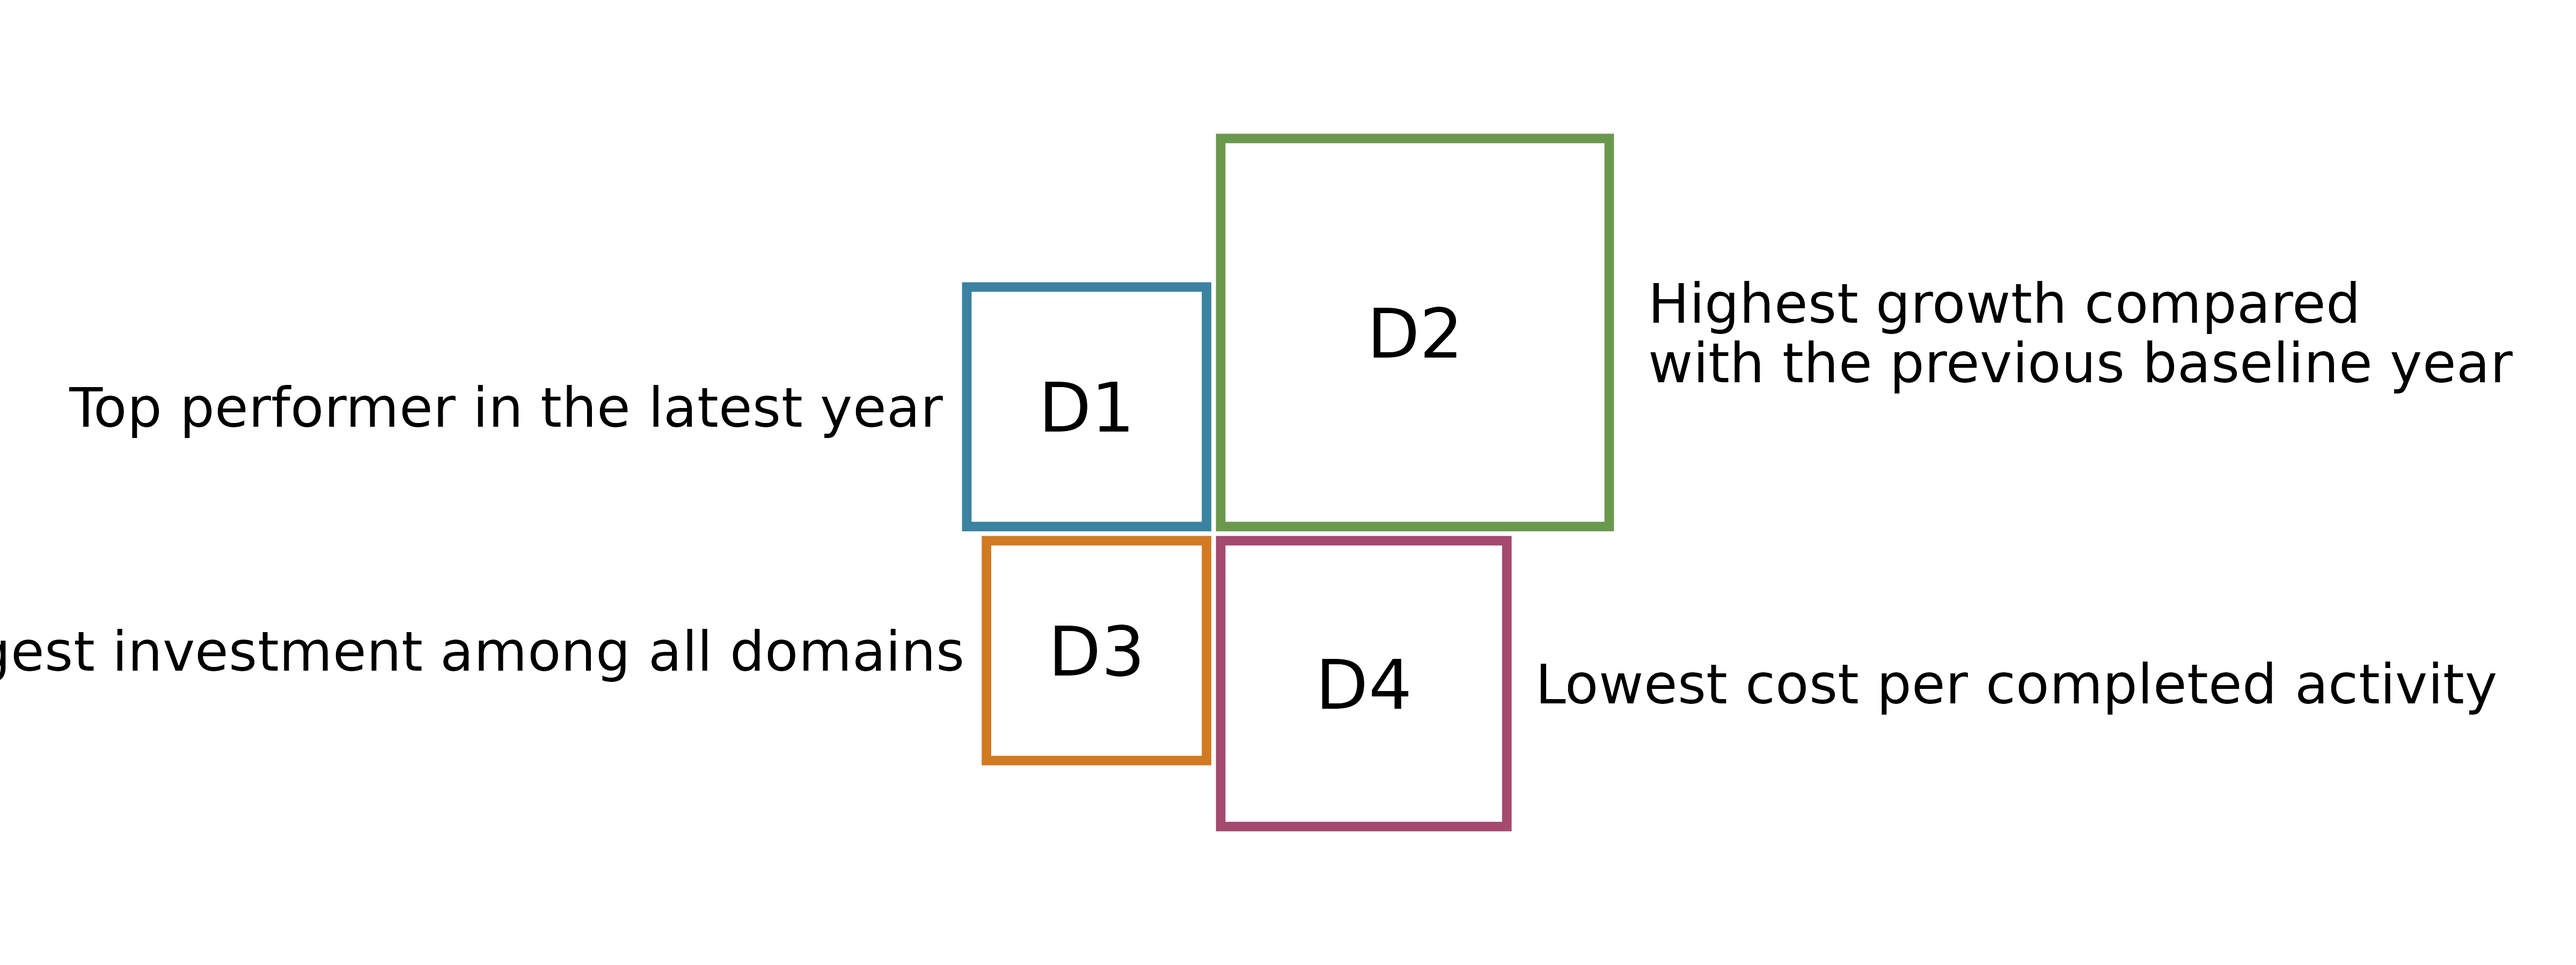
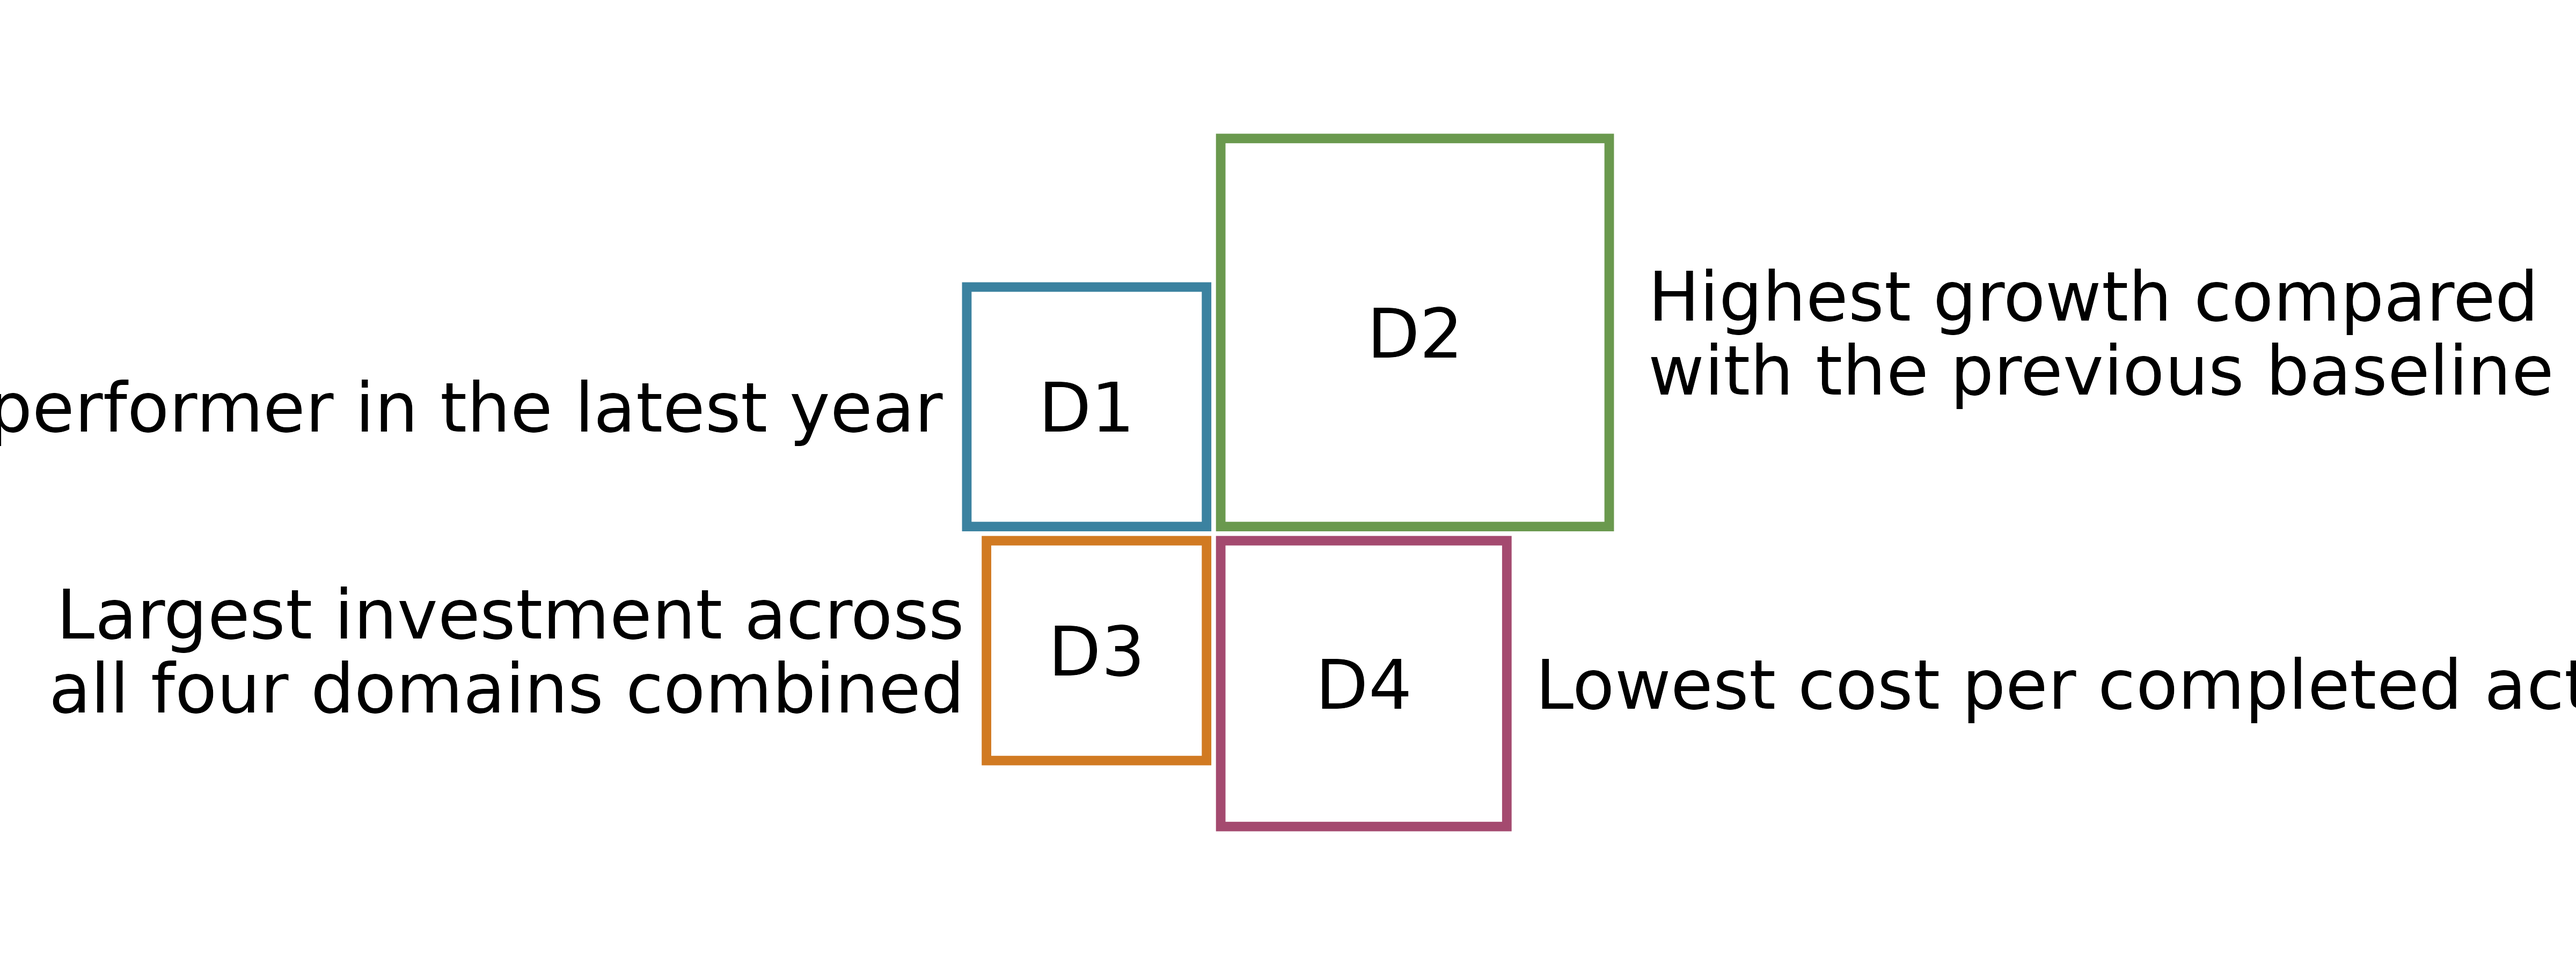
Deploying to gh-pages from @ hriisalu/rectangler@f777bae543fb9dd0fe7c316c2350aa44d712f4db 🚀

diff --git a/articles/rectangler.html b/articles/rectangler.html
@@ -636,6 +636,7 @@ type.</p>
 <span>  <span class="fu"><a href="../reference/rect_annotation.html">rect_annotation</a></span><span class="op">(</span></span>
 <span>    label_col <span class="op">=</span> <span class="st">"annotation"</span>,</span>
 <span>    position <span class="op">=</span> <span class="st">"horizontal"</span>,</span>
+<span>    size <span class="op">=</span> <span class="fl">1</span>,</span>
 <span>    space <span class="op">=</span> <span class="fl">1</span></span>
 <span>  <span class="op">)</span></span></code></pre></div>
 <p><img src="figures/vignette-annotation-basic-1.png" class="r-plt" alt="" width="65%"></p>
@@ -736,9 +737,10 @@ without being clipped.</p>
 <span>  <span class="fu"><a href="../reference/rect_annotation.html">rect_annotation</a></span><span class="op">(</span></span>
 <span>    label_col <span class="op">=</span> <span class="st">"annotation"</span>,</span>
 <span>    position <span class="op">=</span> <span class="st">"horizontal"</span>,</span>
-<span>    space <span class="op">=</span> <span class="fl">1.2</span></span>
+<span>    size <span class="op">=</span> <span class="fl">1</span>,</span>
+<span>    space <span class="op">=</span> <span class="fl">0.9</span></span>
 <span>  <span class="op">)</span></span></code></pre></div>
-<p><img src="figures/vignette-compare-annotation-space-1.png" class="r-plt" alt="" width="80%"></p>
+<p><img src="figures/vignette-compare-annotation-space-1.png" class="r-plt" alt="" width="65%"></p>
 <div class="sourceCode" id="cb30"><pre class="downlit sourceCode r">
 <code class="sourceCode R"><span></span>
 <span><span class="va">mydata_space</span> <span class="op">&lt;-</span> <span class="va">mydata</span> <span class="op"><a href="https://magrittr.tidyverse.org/reference/pipe.html" class="external-link">%&gt;%</a></span></span>
@@ -746,7 +748,7 @@ without being clipped.</p>
 <span>    annotation <span class="op">=</span> <span class="fu"><a href="https://rdrr.io/r/base/c.html" class="external-link">c</a></span><span class="op">(</span></span>
 <span>      <span class="st">"Top performer in the latest year"</span>,</span>
 <span>      <span class="st">"Highest growth compared\nwith the previous baseline year"</span>,</span>
-<span>      <span class="st">"Largest investment among all domains"</span>,</span>
+<span>      <span class="st">"Largest investment across\nall four domains combined"</span>,</span>
 <span>      <span class="st">"Lowest cost per completed activity"</span></span>
 <span>    <span class="op">)</span></span>
 <span>  <span class="op">)</span></span>
@@ -761,10 +763,10 @@ without being clipped.</p>
 <span>  <span class="fu"><a href="../reference/rect_annotation.html">rect_annotation</a></span><span class="op">(</span></span>
 <span>    label_col <span class="op">=</span> <span class="st">"annotation"</span>,</span>
 <span>    position <span class="op">=</span> <span class="st">"horizontal"</span>,</span>
-<span>    space <span class="op">=</span> <span class="fl">4</span>,</span>
-<span>    size <span class="op">=</span> <span class="fl">0.8</span></span>
+<span>    size <span class="op">=</span> <span class="fl">1</span>,</span>
+<span>    space <span class="op">=</span> <span class="fl">4</span></span>
 <span>  <span class="op">)</span></span></code></pre></div>
-<p><img src="figures/vignette-compare-annotation-long-space-1.png" class="r-plt" alt="" width="80%"></p>
+<p><img src="figures/vignette-compare-annotation-long-space-1.png" class="r-plt" alt="" width="65%"></p>
 </div>
 <div class="section level3">
 <h3 id="gap">Gap<a class="anchor" aria-label="anchor" href="#gap"></a>

diff --git a/articles/rectangler.md b/articles/rectangler.md
@@ -675,6 +675,7 @@ rect_plot4(mydata, value_col = "value") %>%
   rect_annotation(
     label_col = "annotation",
     position = "horizontal",
+    size = 1,
     space = 1
   )
 ```
@@ -785,7 +786,8 @@ rect_plot4(mydata, value_col = "value") %>%
   rect_annotation(
     label_col = "annotation",
     position = "horizontal",
-    space = 1.2
+    size = 1,
+    space = 0.9
   )
 ```
 
@@ -799,7 +801,7 @@ mydata_space <- mydata %>%
     annotation = c(
       "Top performer in the latest year",
       "Highest growth compared\nwith the previous baseline year",
-      "Largest investment among all domains",
+      "Largest investment across\nall four domains combined",
       "Lowest cost per completed activity"
     )
   )
@@ -814,8 +816,8 @@ rect_plot4(mydata_space, value_col = "value") %>%
   rect_annotation(
     label_col = "annotation",
     position = "horizontal",
-    space = 4,
-    size = 0.8
+    size = 1,
+    space = 4
   )
 ```
 
